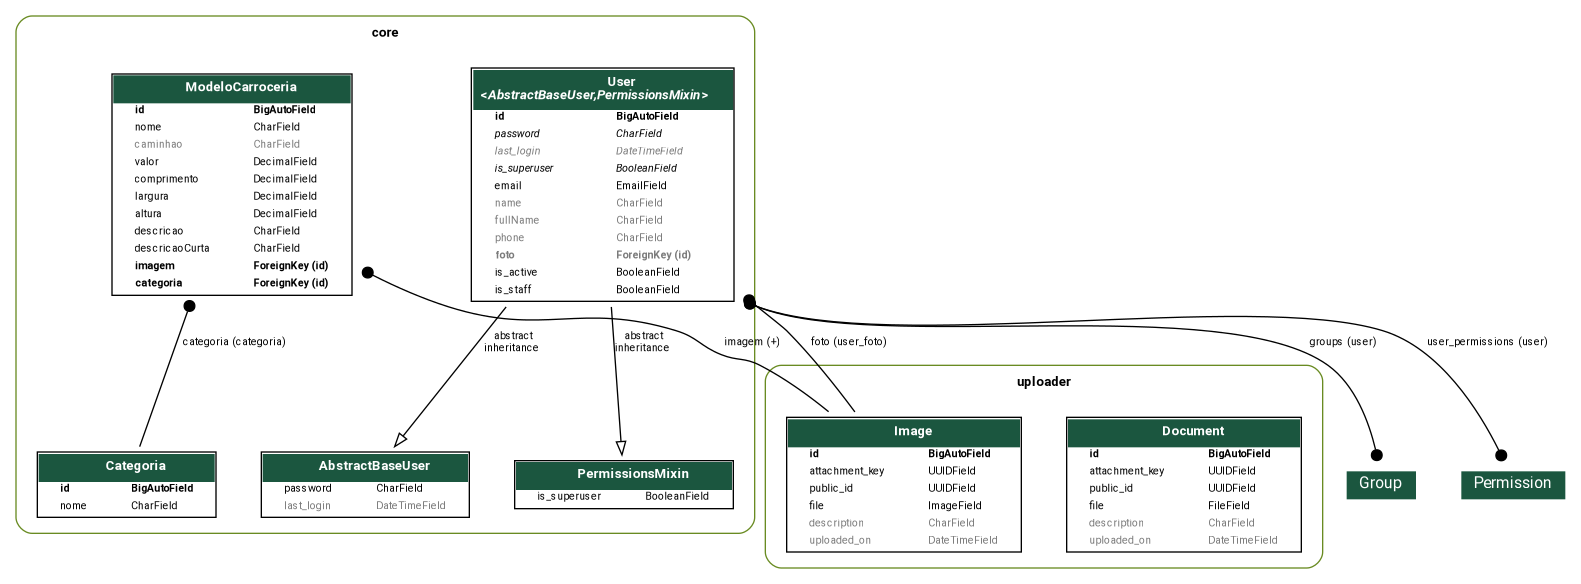
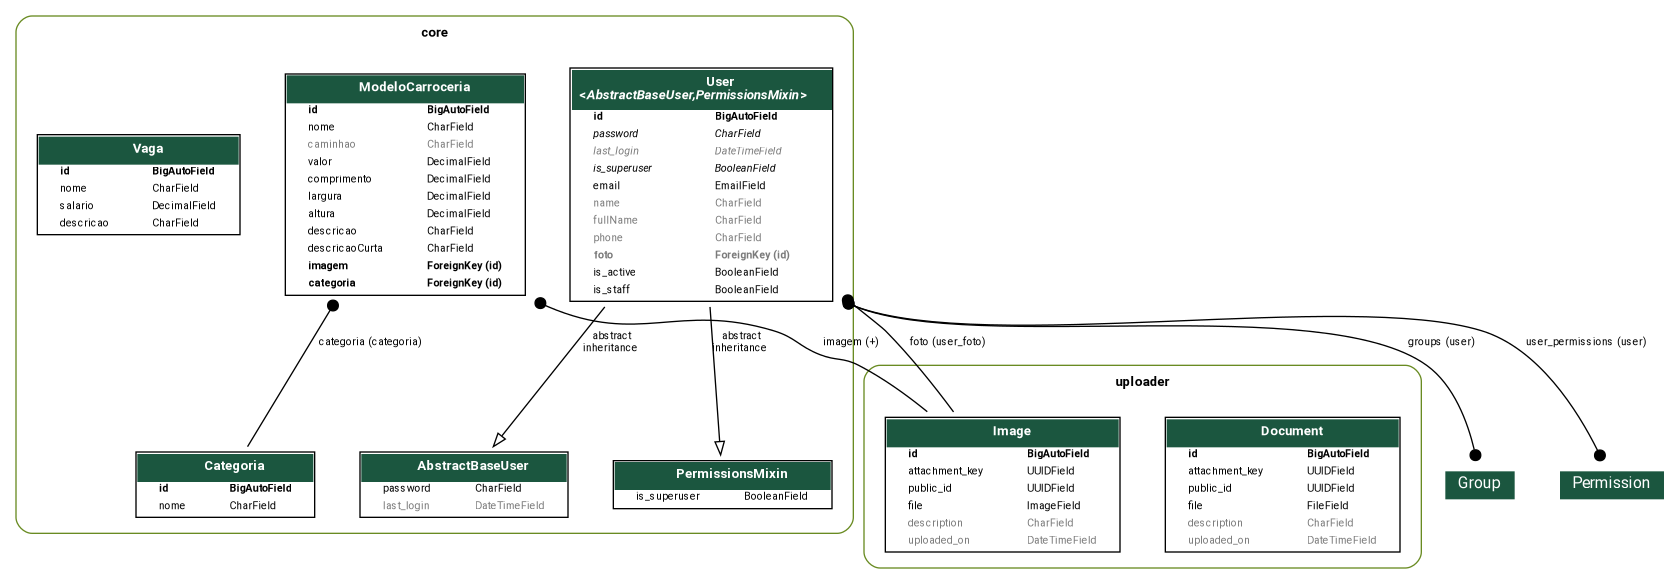
feat: add Vagas API [REFS:#16]

diff --git a/core/migrations/0022_vaga.py b/core/migrations/0022_vaga.py
@@ -1,0 +1,22 @@
+# Generated by Django 5.2.13 on 2026-09-22 12:15
+
+from django.db import migrations, models
+
+
+class Migration(migrations.Migration):
+
+    dependencies = [
+        ('core', '0021_modelocarroceria_caminhao'),
+    ]
+
+    operations = [
+        migrations.CreateModel(
+            name='Vaga',
+            fields=[
+                ('id', models.BigAutoField(auto_created=True, primary_key=True, serialize=False, verbose_name='ID')),
+                ('nome', models.CharField(max_length=45)),
+                ('salario', models.DecimalField(decimal_places=2, max_digits=5)),
+                ('descricao', models.CharField(max_length=1000)),
+            ],
+        ),
+    ]

diff --git a/app/urls.py b/app/urls.py
@@ -21,6 +21,7 @@ from core.views import (
     ModeloCarroceriaViewSet, 
     UserRegistrationView, 
     UserViewSet,
+    VagaViewSet,
 )
 
 from django.conf import settings
@@ -32,6 +33,7 @@ router = DefaultRouter()
 router.register(r'usuarios', UserViewSet, basename='usuarios')
 router.register(r'modelosCarrocerias', ModeloCarroceriaViewSet, basename='modelosCarrocerias')
 router.register(r'categorias', CategoriaViewSet, basename='categorias')
+router.register(r'vagas', VagaViewSet, basename='vagas')
 
 urlpatterns = [
     path('admin/', admin.site.urls),

diff --git a/core/serializers/__init__.py b/core/serializers/__init__.py
@@ -1,3 +1,8 @@
 from .user import UserRegistrationSerializer, UserSerializer
-from .carroceria.modeloCarroceria import ModeloCarroceriaListSerializer, ModeloCarroceriaRetrieveSerializer, ModeloCarroceriaCreateUpdateSerializer
+from .carroceria.modeloCarroceria import (
+    ModeloCarroceriaListSerializer,
+    ModeloCarroceriaRetrieveSerializer,
+    ModeloCarroceriaCreateUpdateSerializer
+)
 from .carroceria.categoria import CategoriaSerializer
+from .vagas import VagaSerializer

diff --git a/core/serializers/vagas.py b/core/serializers/vagas.py
@@ -1,0 +1,14 @@
+from rest_framework.serializers import ModelSerializer
+from django.core.exceptions import ValidationError
+
+from core.models import Vaga
+
+class VagaSerializer(ModelSerializer):
+    class Meta:
+        model = Vaga
+        fields = '__all__'
+        
+    # def validate_salario(self, salario):
+    #     if salario == 0:
+    #         raise ValidationError('O salário deve ser maior que zero')
+    #     return salario 

diff --git a/core/migrations/0023_alter_vaga_salario.py b/core/migrations/0023_alter_vaga_salario.py
@@ -1,0 +1,18 @@
+# Generated by Django 5.2.13 on 2026-09-22 12:24
+
+from django.db import migrations, models
+
+
+class Migration(migrations.Migration):
+
+    dependencies = [
+        ('core', '0022_vaga'),
+    ]
+
+    operations = [
+        migrations.AlterField(
+            model_name='vaga',
+            name='salario',
+            field=models.DecimalField(decimal_places=2, max_digits=7),
+        ),
+    ]

diff --git a/core/models/vagas.py b/core/models/vagas.py
@@ -1,0 +1,10 @@
+from django.db import models
+
+class Vaga(models.Model):
+    nome = models.CharField(max_length=45)
+    salario = models.DecimalField(max_digits=7, decimal_places=2)
+    descricao = models.CharField(max_length=1000)
+
+
+    def __str__(self):
+        f'{self.nome}'

diff --git a/core/views/vagas.py b/core/views/vagas.py
@@ -1,0 +1,8 @@
+from rest_framework.viewsets import ModelViewSet
+
+from core.models import Vaga
+from core.serializers import VagaSerializer
+
+class VagaViewSet(ModelViewSet):
+    queryset = Vaga.objects.all()
+    serializer_class = VagaSerializer

diff --git a/core/views/__init__.py b/core/views/__init__.py
@@ -1,3 +1,4 @@
 from .user import UserRegistrationView, UserViewSet
 from .carroceria.modeloCarroceria import ModeloCarroceriaViewSet
 from .carroceria.categoria import CategoriaViewSet
+from .vagas import VagaViewSet

diff --git a/core/models/__init__.py b/core/models/__init__.py
@@ -1,3 +1,4 @@
 from .user import User
 from .carroceria.modeloCarroceria import ModeloCarroceria
 from .carroceria.categoria import Categoria
+from .vagas import Vaga
